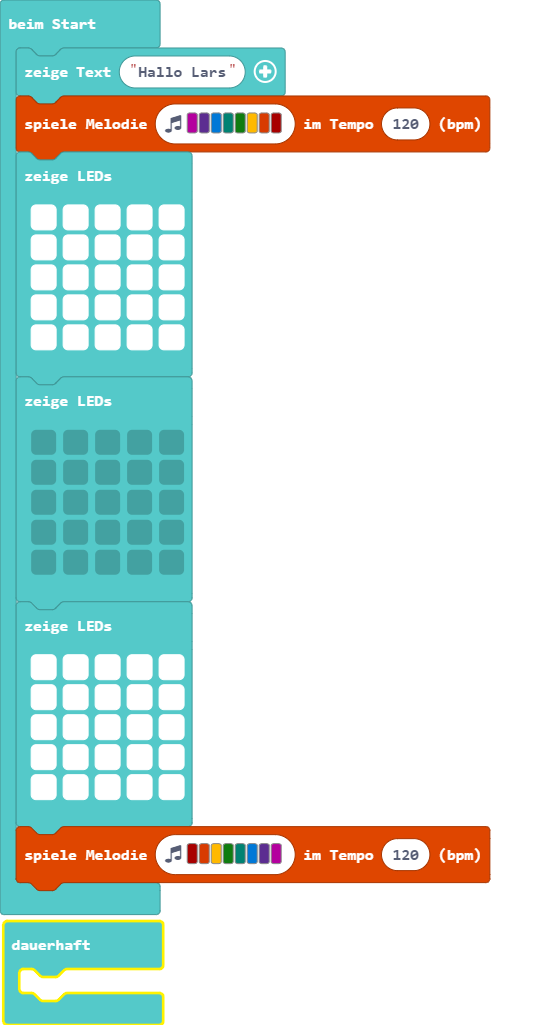
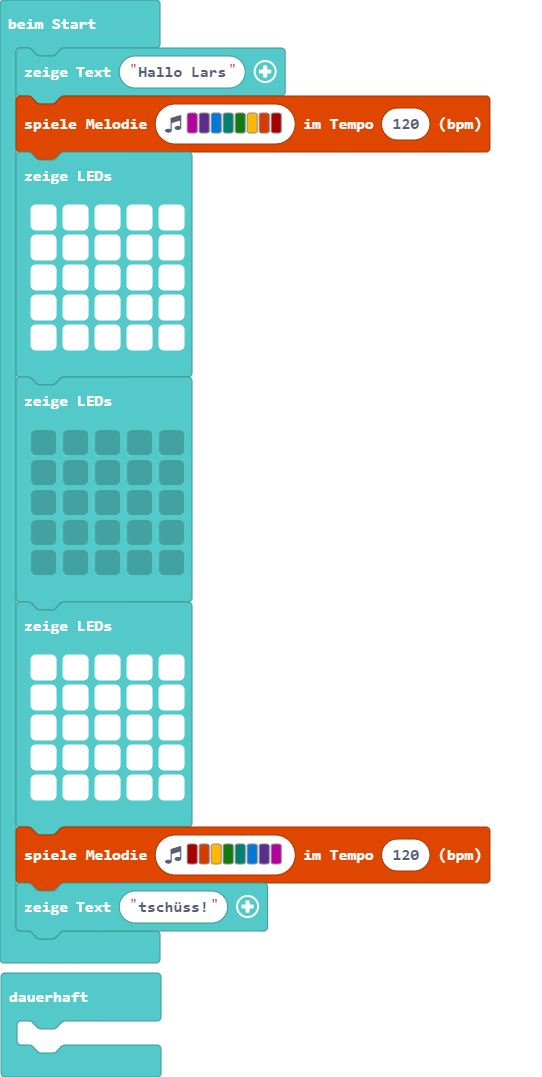
Aktualisiere main.blocks, main.ts

diff --git a/main.ts b/main.ts
@@ -22,6 +22,7 @@ basic.showLeds(`
     # # # # #
     `)
 music.playMelody("C5 B A G F E D C ", 120)
+basic.showString("tschüss!")
 basic.forever(function () {
 	
 })
